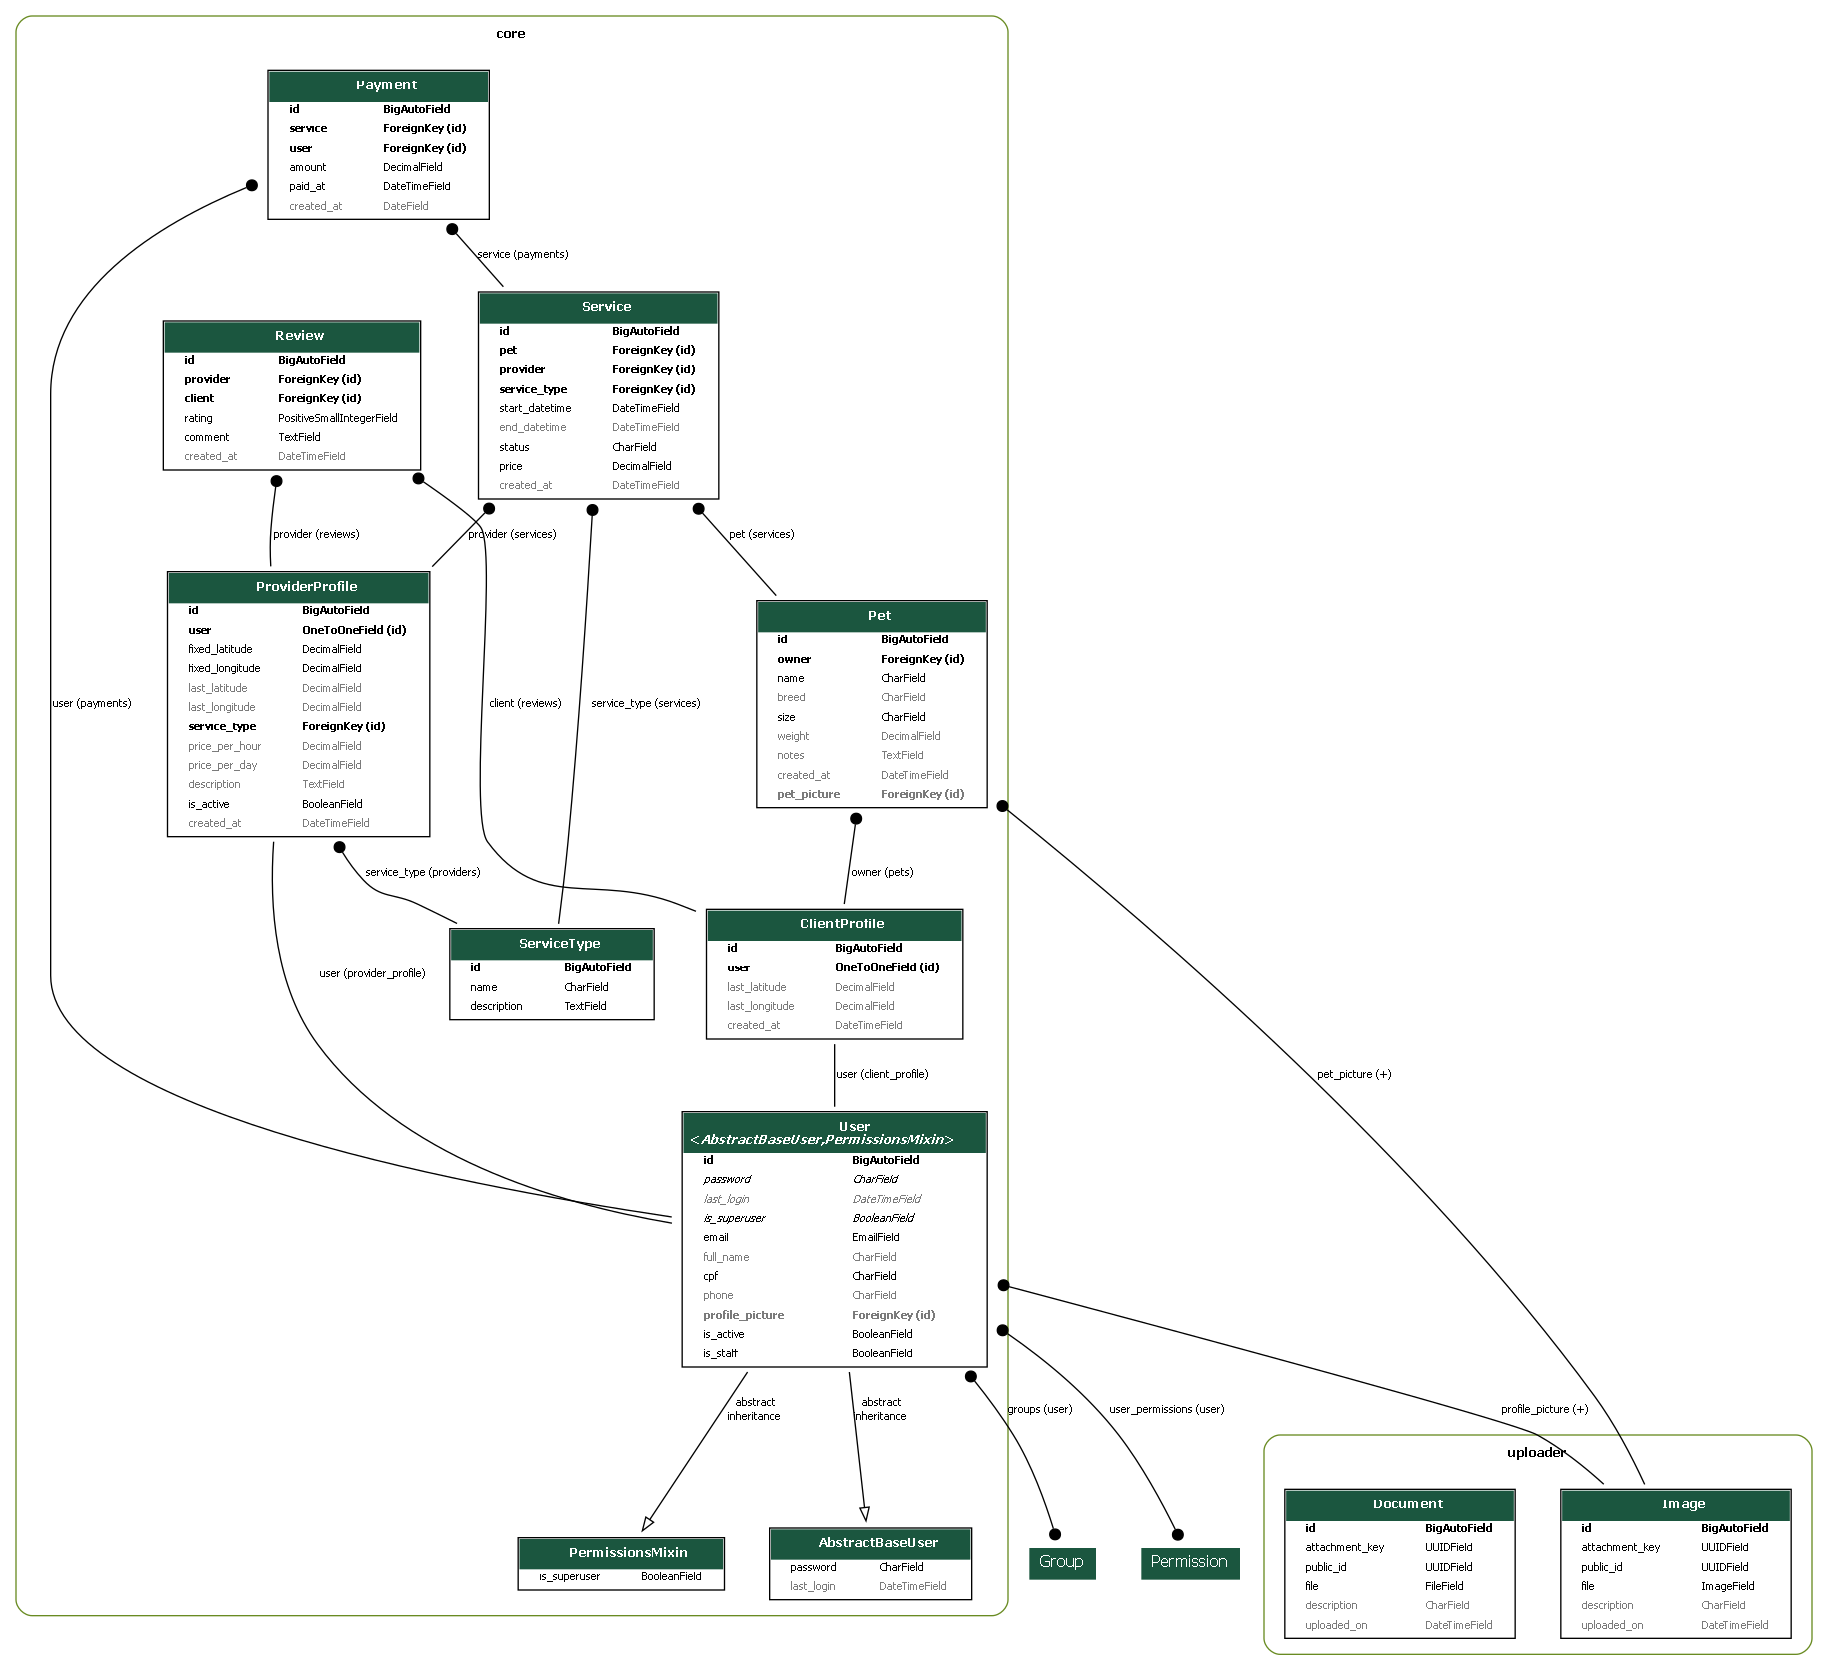
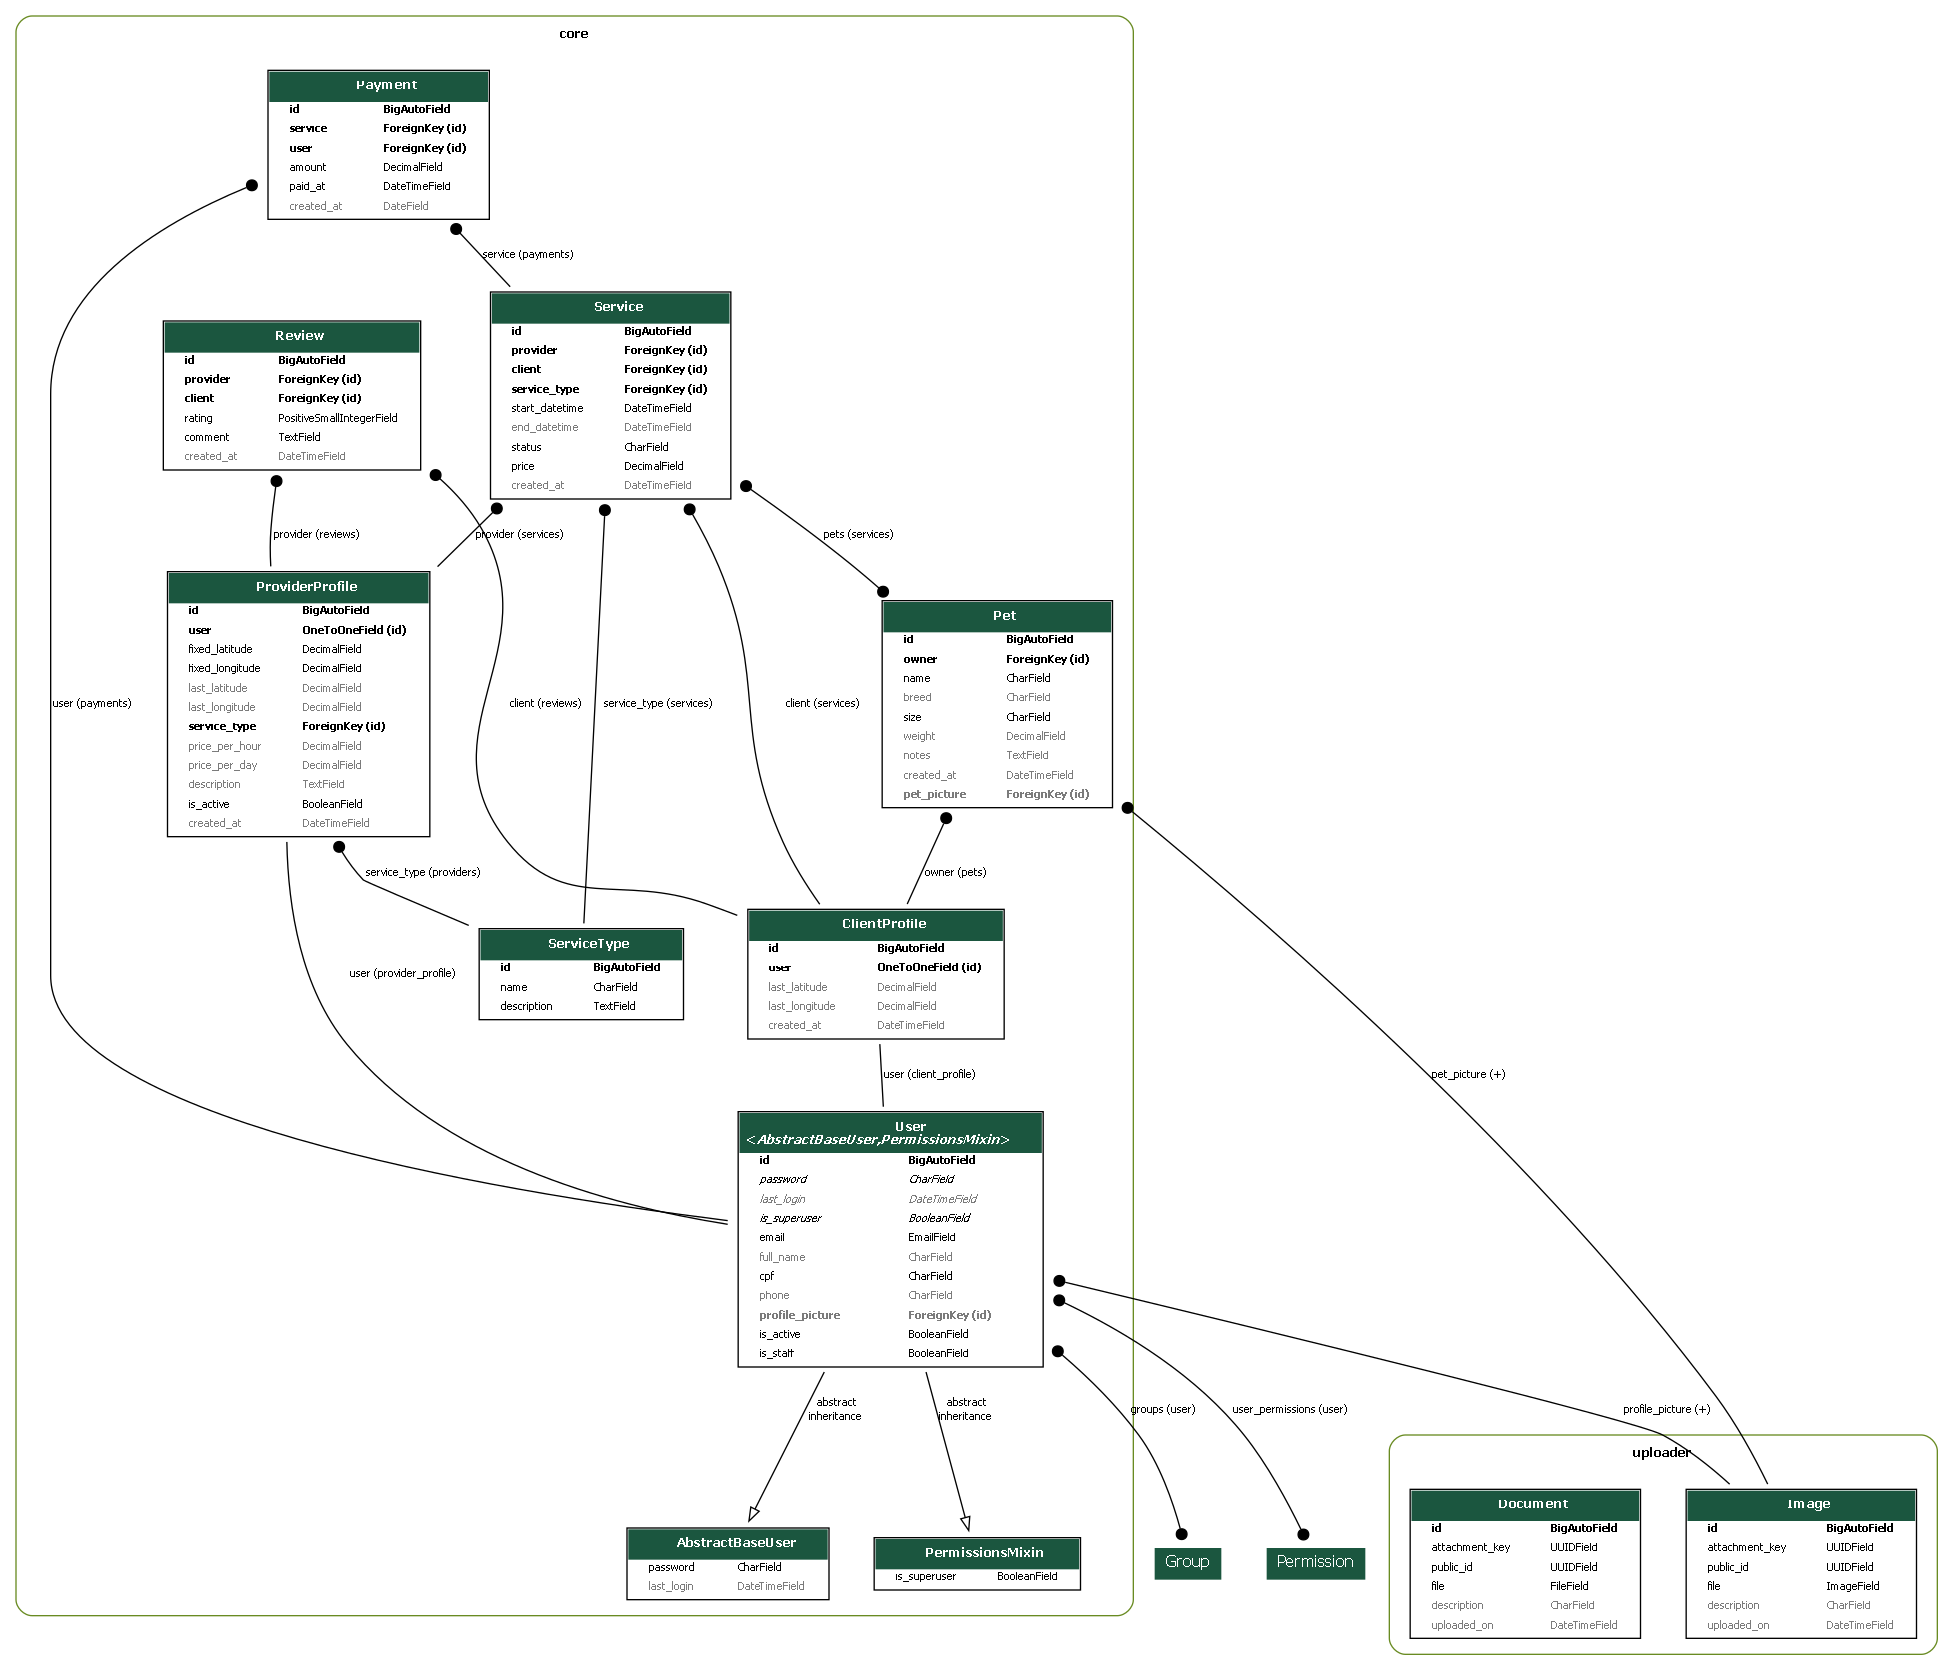
FIX: Adjusting Service serializer, model an viewset #27

diff --git a/core/serializers/service.py b/core/serializers/service.py
@@ -2,16 +2,76 @@ from decimal import Decimal
 
 from rest_framework import serializers
 
-from core.models import Service, ServiceType
+from core.models import Pet, Service, ServiceType
 
 
-class ServiceSerializer(serializers.ModelSerializer):
+class PetServiceSerializer(serializers.ModelSerializer):
+    pet_picture = serializers.SerializerMethodField()
+
+    class Meta:
+        model = Pet
+        fields = (
+            'id',
+            'pet_picture',
+            'name',
+        )
+
+    def get_pet_picture(self, obj):
+        pet_picture = obj.pet_picture
+        if pet_picture:
+            return pet_picture.url
+        return None
+
+
+class ServiceListSerializer(serializers.ModelSerializer):
+    client_id = serializers.IntegerField(source='client.id')
+    client_name = serializers.CharField(source='client.user.full_name')
+    client_picture = serializers.SerializerMethodField()
+    provider_id = serializers.IntegerField(source='provider.id')
+    provider_name = serializers.CharField(source='provider.user.full_name')
+    provider_picture = serializers.SerializerMethodField()
+    service_type = serializers.CharField(source='service_type.name')
+    pets = PetServiceSerializer(many=True, read_only=True)
+
     class Meta:
         model = Service
         fields = (
             'id',
-            'pet',
+            'client_id',
+            'client_name',
+            'client_picture',
+            'provider_id',
+            'provider_name',
+            'provider_picture',
+            'service_type',
+            'pets',
+            'price',
+            'status',
+            'start_datetime',
+            'end_datetime',
+            'created_at'
+        )
+
+    def get_client_picture(self, obj):
+        profile_picture = obj.client.user.profile_picture
+        if profile_picture:
+            return profile_picture.url
+        return None
+
+    def get_provider_picture(self, obj):
+        profile_picture = obj.provider.user.profile_picture
+        if profile_picture:
+            return profile_picture.url
+        return None
+
+
+class ServiceCreateUpdateSerializer(serializers.ModelSerializer):
+    class Meta:
+        model = Service
+        fields = (
+            'pets',
             'provider',
+            'client',
             'service_type',
             'start_datetime',
             'end_datetime',
@@ -19,7 +79,7 @@ class ServiceSerializer(serializers.ModelSerializer):
             'price',
             'created_at',
         )
-        read_only_fields = ('id', 'price', 'status', 'created_at')
+        read_only_fields = ('id', 'client', 'price', 'status', 'created_at')
 
     def validate(self, data):
         if data['end_datetime'] <= data['start_datetime']:
@@ -27,6 +87,12 @@ class ServiceSerializer(serializers.ModelSerializer):
         return data
 
     def create(self, validated_data):
+        user = self.context['request'].user
+        client = getattr(user, 'client_profile', None)
+
+        if client is None:
+            raise serializers.ValidationError('Somente clientes podem criar solicitações de serviço')
+
         provider = validated_data['provider']
         start = validated_data['start_datetime']
         end = validated_data['end_datetime']
@@ -43,6 +109,7 @@ class ServiceSerializer(serializers.ModelSerializer):
             raise serializers.ValidationError('O Provedor não possui preço definido')
 
         validated_data['price'] = price.quantize(Decimal('0.01'))
+        validated_data['client'] = client
         return super().create(validated_data)
 
     def update(self, instance, validated_data):
@@ -63,23 +130,6 @@ class ServiceSerializer(serializers.ModelSerializer):
 
         validated_data['price'] = price.quantize(Decimal('0.01'))
         return super().update(instance, validated_data)
-
-
-class ServiceDetailSerializer(serializers.ModelSerializer):
-    class Meta:
-        model = Service
-        fields = (
-            'id',
-            'pet',
-            'provider',
-            'service_type',
-            'start_datetime',
-            'end_datetime',
-            'status',
-            'price',
-            'created_at',
-        )
-        depth = 1
 
 
 class ServiceTypeSerializer(serializers.ModelSerializer):

diff --git a/core/models/service.py b/core/models/service.py
@@ -1,5 +1,8 @@
 from django.db import models
 
+from .pet import Pet
+from .profile import ClientProfile, ProviderProfile
+
 
 class ServiceType(models.Model):
     name = models.CharField(max_length=20, null=False, blank=False)
@@ -10,19 +13,23 @@ class ServiceType(models.Model):
 
 
 class Service(models.Model):
-    class ServiceStatus(models.TextChoices):
-        PENDING = 'pending', 'Pendente'
-        IN_PROGRESS = 'in_progress', 'Em andamento'
-        FINISHED = 'finished', 'Concluído'
+    class Status(models.IntegerChoices):
+        IN_REVIEW = 1, 'Em análise'
+        CONFIRMED = 2, 'Confirmado'
+        IN_PROGRESS = 3, 'Em andamento'
+        COMPLETED = 4, 'Concluído'
+        CANCELLED = 5, 'Cancelado'
+        REJECTED = 6, 'Recusado'
 
-    pet = models.ForeignKey('core.Pet', on_delete=models.PROTECT, related_name='services')
-    provider = models.ForeignKey('core.ProviderProfile', on_delete=models.PROTECT, related_name='services')
+    pets = models.ManyToManyField(Pet, related_name='services')
+    provider = models.ForeignKey(ProviderProfile, on_delete=models.PROTECT, related_name='services')
+    client = models.ForeignKey(ClientProfile, on_delete=models.PROTECT, related_name='services')
     service_type = models.ForeignKey(ServiceType, on_delete=models.PROTECT, related_name='services')
     start_datetime = models.DateTimeField()
     end_datetime = models.DateTimeField(null=True, blank=True)
-    status = models.CharField(max_length=20, choices=ServiceStatus.choices, null=False, default=ServiceStatus.PENDING)
+    status = models.CharField(max_length=20, choices=Status.choices, null=False, default=Status.IN_REVIEW)
     price = models.DecimalField(max_digits=7, decimal_places=2)
     created_at = models.DateTimeField(auto_now_add=True)
 
     def __str__(self):
-        return f'({self.id}) provedor: {self.provider.user.email}, pet: {self.pet}'
+        return f'({self.id}) provedor: {self.provider.user.email}, cliente: {self.client.user.email}'

diff --git a/core/migrations/0022_remove_service_pet_service_client_service_pets_and_more.py b/core/migrations/0022_remove_service_pet_service_client_service_pets_and_more.py
@@ -1,0 +1,34 @@
+# Generated by Django 5.2.13 on 2026-08-28 17:57
+
+import django.db.models.deletion
+from django.db import migrations, models
+
+
+class Migration(migrations.Migration):
+
+    dependencies = [
+        ('core', '0021_remove_pet_vaccination_status'),
+    ]
+
+    operations = [
+        migrations.RemoveField(
+            model_name='service',
+            name='pet',
+        ),
+        migrations.AddField(
+            model_name='service',
+            name='client',
+            field=models.ForeignKey(default=1, on_delete=django.db.models.deletion.PROTECT, related_name='services', to='core.clientprofile'),
+            preserve_default=False,
+        ),
+        migrations.AddField(
+            model_name='service',
+            name='pets',
+            field=models.ManyToManyField(related_name='services', to='core.pet'),
+        ),
+        migrations.AlterField(
+            model_name='service',
+            name='status',
+            field=models.CharField(choices=[(1, 'Em análise'), (2, 'Confirmado'), (3, 'Em andamento'), (4, 'Concluído'), (5, 'Cancelado'), (6, 'Recusado')], default=1, max_length=20),
+        ),
+    ]

diff --git a/core/views/service.py b/core/views/service.py
@@ -3,8 +3,8 @@ from rest_framework.viewsets import ModelViewSet
 
 from core.models import Service, ServiceType
 from core.serializers import (
-    ServiceDetailSerializer,
-    ServiceSerializer,
+    ServiceCreateUpdateSerializer,
+    ServiceListSerializer,
     ServiceTypeRegisterSerializer,
     ServiceTypeSerializer,
 )
@@ -14,9 +14,9 @@ class ServiceViewSet(ModelViewSet):
     queryset = Service.objects.all()
 
     def get_serializer_class(self):
-        if self.action == 'retrieve':
-            return ServiceDetailSerializer
-        return ServiceSerializer
+        if self.action in {'create', 'update', 'partial_update'}:
+            return ServiceCreateUpdateSerializer
+        return ServiceListSerializer
 
 
 class ServiceTypeViewSet(ModelViewSet):

diff --git a/core/serializers/__init__.py b/core/serializers/__init__.py
@@ -1,6 +1,6 @@
 from .pet import PetSerializer, PetDetailSerializer, PetRegisterUpdateSerializer
 from .profile import ClientDetailSerializer, ClientSerializer, ProviderDetailSerializer, ProviderSerializer, ProviderRegisterSerializer
-from .service import ServiceSerializer, ServiceDetailSerializer, ServiceTypeSerializer, ServiceTypeRegisterSerializer
+from .service import ServiceListSerializer, ServiceCreateUpdateSerializer, ServiceTypeSerializer, ServiceTypeRegisterSerializer
 from .user import UserProfileSerializer, UserRegistrationSerializer, UserSerializer
 from .payment import PaymentSerializer, PaymentDetailSerializer
 from .review import ReviewSerializer, ReviewDetailSerializer, ReviewCreateUpdateSerializer
